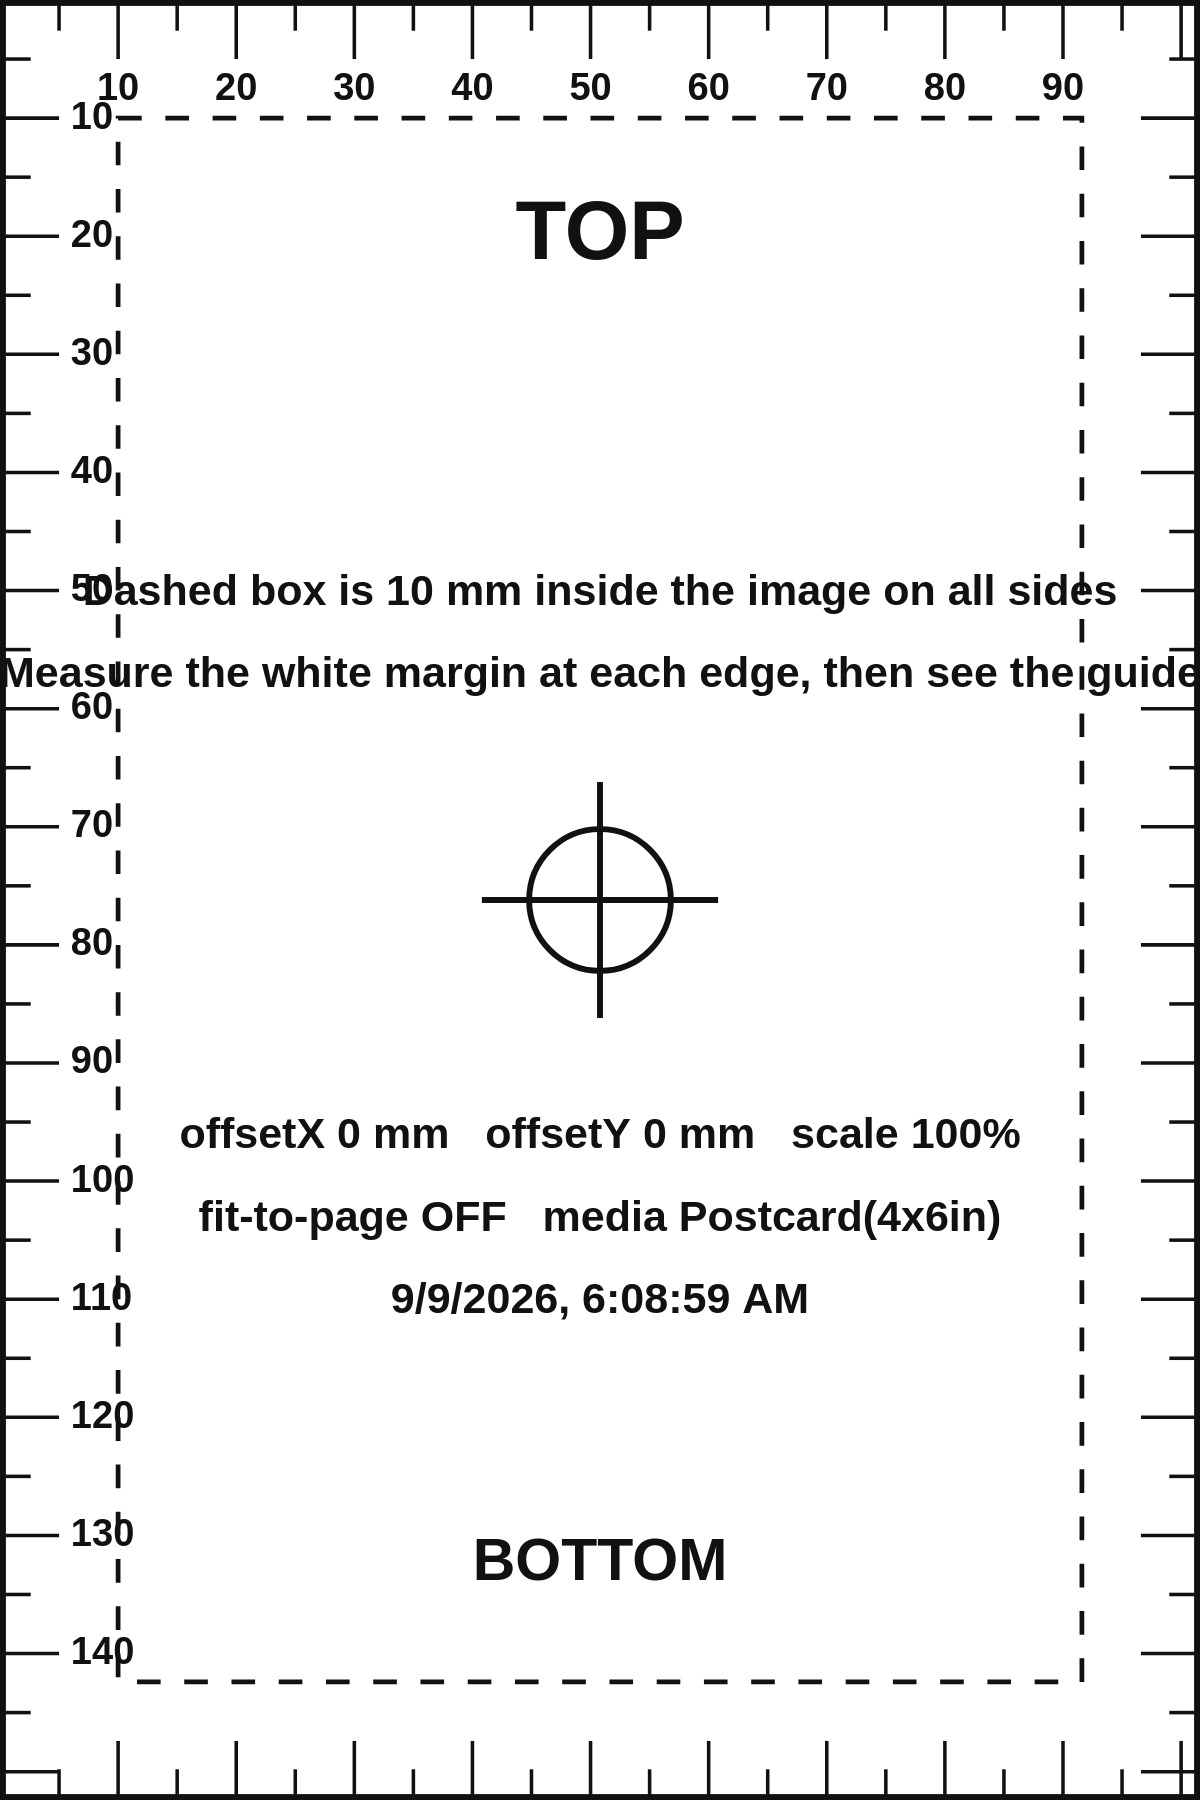
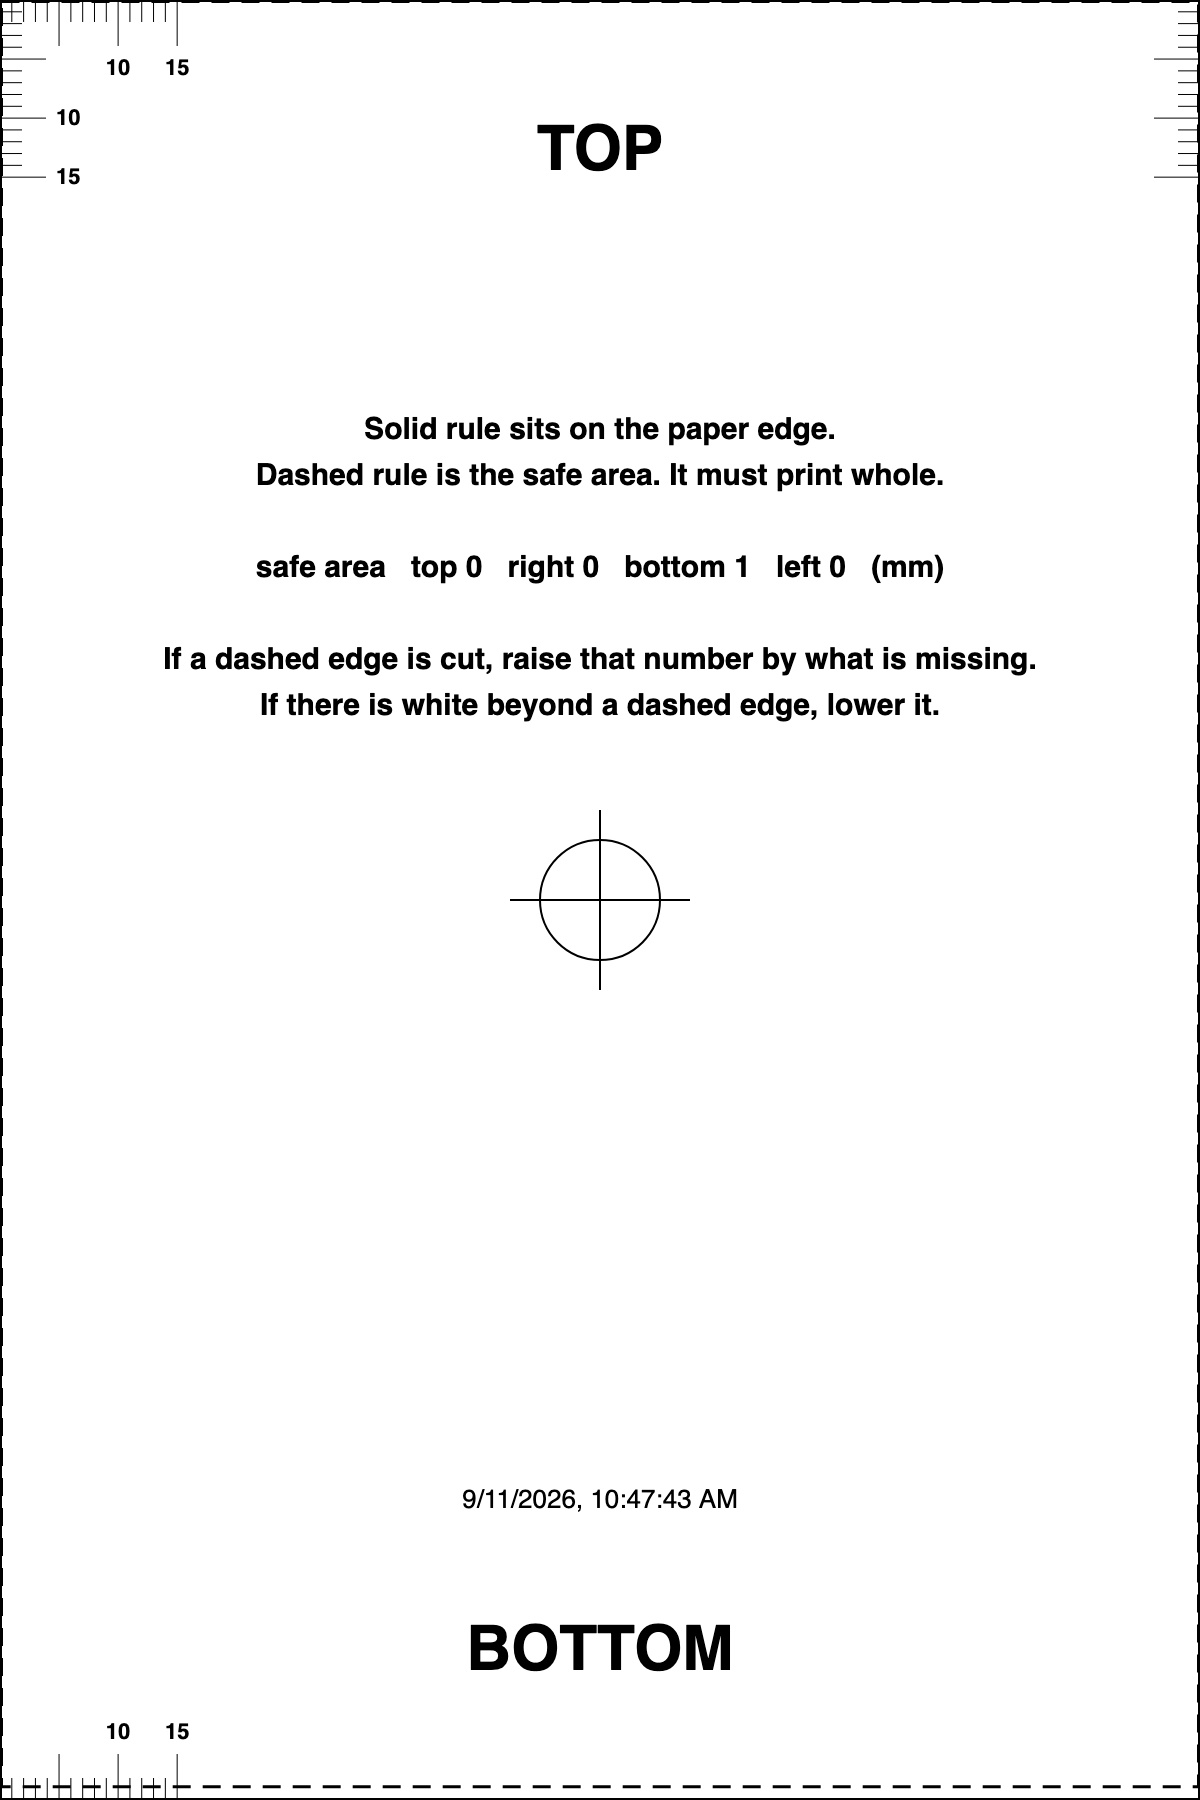
Staff can retime the booth from their phone
Every timing in the flow was a number in settings.json, which meant changing
the gap between photos was a text editor, a restart, and someone who knows
what JSON is. At an event none of those are available, so the numbers simply
stayed wrong.

The queue page now has a Timing tab that draws the booth's actual flow --
get ready, photos, the gap between them, the three review steps, the idle
reset -- as a numbered list with the seconds in a box next to each. An
operator who has never seen the code can see what they are changing because
what they are changing is laid out in the order it happens.

Saving goes through config.save, so the clamps apply and a fat-fingered 300
cannot leave the booth waiting five minutes between shots, and the new values
are pushed straight at the renderer. No restart: an operator who has to
restart the app to change a countdown will just leave it wrong.

One definition of what is tunable, in main, which the phone renders and the
save path validates against, so the form and the clamps cannot drift apart.

diff --git a/server.js b/server.js
@@ -77,7 +77,7 @@ function retotal(order, pricing) {
  * @param {object} opts.cfg
  * @param {(order) => Promise<{ok:boolean,error?:string}>} opts.onRelease
  */
-function start({ queue, cfg, onRelease, onKeychain, isLocked, onStartSession }) {
+function start({ queue, cfg, onRelease, onKeychain, isLocked, onStartSession, onSettings, timings }) {
   const pin = String(cfg.staffPin || '');
   const port = cfg.staffPort || 8080;
 
@@ -115,6 +115,26 @@ function start({ queue, cfg, onRelease, onKeychain, isLocked, onStartSession }) 
     if (p === '/api/start' && req.method === 'POST') {
       if (!onStartSession) return json(res, 501, { error: 'not supported' });
       return json(res, 200, onStartSession() || { ok: true });
+    }
+
+    /**
+     * Timings, as a list the phone renders into the booth's actual flow. Kept
+     * here rather than as a hard-coded form so there is one definition of what
+     * is tunable, and non-technical staff never have to open settings.json.
+     */
+    if (p === '/api/settings') {
+      if (req.method === 'POST') {
+        if (!onSettings) return json(res, 501, { error: 'not supported' });
+        const body = await readBody(req);
+        const patch = {};
+        for (const row of (timings ? timings() : [])) {
+          if (Number.isFinite(body[row.key])) patch[row.key] = body[row.key];
+        }
+        if (!Object.keys(patch).length) return json(res, 400, { error: 'nothing to change' });
+        const r = onSettings(patch);
+        return json(res, 200, r || { ok: true });
+      }
+      return json(res, 200, { settings: timings ? timings() : [] });
     }
 
     if (p === '/api/thumb') {
@@ -272,6 +292,24 @@ const PAGE = `<!doctype html>
   .kc.small{width:auto;margin:0 0 0 10px;padding:6px 10px;font-size:12px;
     color:var(--paper);border-color:rgba(255,248,238,.35)}
   .past{align-items:center}
+  .tabs{display:flex;gap:8px;margin-left:auto}
+  .tab{background:transparent;color:var(--paper);border:1px solid rgba(255,248,238,.3);
+    padding:8px 12px;font-size:13px;border-radius:999px;font-weight:500}
+  .tab[aria-selected="true"]{background:var(--paper);color:var(--ink)}
+  .flow{display:flex;flex-direction:column;gap:10px}
+  .fstep{background:var(--paper);color:var(--ink);border-radius:16px;padding:12px 14px;
+    display:flex;align-items:center;gap:12px}
+  .fstep .n{width:26px;height:26px;border-radius:50%;background:var(--ink);color:var(--paper);
+    display:grid;place-items:center;font-size:13px;font-weight:700;flex:0 0 auto}
+  .fstep .lab{font-weight:600;font-size:15px}
+  .fstep .hint{display:block;font-weight:400;font-size:12px;color:var(--soft)}
+  .fstep .val{margin-left:auto;display:flex;align-items:center;gap:8px;flex:0 0 auto}
+  .fstep input{width:74px;padding:10px;font-size:19px;text-align:center;border-radius:10px;
+    border:1px solid var(--line);background:#fff;color:var(--ink);font-weight:700}
+  .fstep .unit{font-size:12px;color:var(--soft);width:16px}
+  .arrow{text-align:center;color:rgba(255,248,238,.4);font-size:14px;line-height:1;margin:-4px 0}
+  .saverow{position:sticky;bottom:0;padding:12px 0 0;background:linear-gradient(transparent,var(--ink) 30%)}
+  .saved{text-align:center;font-size:13px;opacity:.75;padding-top:8px}
 </style></head><body>
 <div id="gate" class="gate">
   <h1>Xinhmo</h1>
@@ -281,9 +319,22 @@ const PAGE = `<!doctype html>
   <p id="gateErr" class="err"></p>
 </div>
 <div id="app" hidden>
-  <header><h1>Queue</h1><span class="count" id="count"></span></header>
-  <main><div id="booth"></div><div id="list"></div>
-    <h2 id="pastHead" hidden>Done</h2><div id="past"></div>
+  <header><h1>Queue</h1><span class="count" id="count"></span>
+    <span class="tabs">
+      <button class="tab" id="tabQueue" aria-selected="true">Queue</button>
+      <button class="tab" id="tabSet" aria-selected="false">Timing</button>
+    </span>
+  </header>
+  <main>
+    <div id="queueView"><div id="booth"></div><div id="list"></div>
+      <h2 id="pastHead" hidden>Done</h2><div id="past"></div>
+    </div>
+    <div id="setView" hidden>
+      <h2 style="margin-top:8px">How long each step lasts</h2>
+      <div class="flow" id="flow"></div>
+      <div class="saverow"><button class="go" id="saveSet">Save timings</button></div>
+      <p class="saved" id="setMsg">Changes reach the booth straight away. It does not need restarting.</p>
+    </div>
   </main>
 </div>
 <script>
@@ -311,8 +362,57 @@ const PAGE = `<!doctype html>
     }).catch(function(e){$('gateErr').textContent=e.message});
   }
 
+  // Timing view. Drawn as the booth's own flow with a number in each step, so
+  // an operator who has never seen the code can still see what they are changing.
+  var settings=[];
+  function loadSettings(){
+    api('/api/settings').then(function(r){return r.json()}).then(function(d){
+      settings=d.settings||[]; renderFlow();
+    }).catch(function(){});
+  }
+  function renderFlow(){
+    var f=$('flow'); f.innerHTML='';
+    settings.forEach(function(row,i){
+      if(i)f.insertAdjacentHTML('beforeend','<div class="arrow">&#9660;</div>');
+      var el=document.createElement('div'); el.className='fstep';
+      el.innerHTML='<span class="n">'+(i+1)+'</span>'+
+        '<span class="lab">'+row.label+'<span class="hint">'+row.hint+'</span></span>'+
+        '<span class="val"><input type="number" inputmode="numeric" data-k="'+row.key+'" '+
+          'min="'+row.min+'" max="'+row.max+'" value="'+row.value+'" />'+
+          '<span class="unit">'+(row.unit===''?'':'s')+'</span></span>';
+      f.appendChild(el);
+    });
+  }
+  $('saveSet').addEventListener('click',function(){
+    var b=this, body={};
+    $('flow').querySelectorAll('input[data-k]').forEach(function(i){
+      var v=parseInt(i.value,10); if(!isNaN(v))body[i.getAttribute('data-k')]=v;
+    });
+    b.disabled=true; b.textContent='Saving...';
+    api('/api/settings',{method:'POST',headers:{'Content-Type':'application/json'},
+      body:JSON.stringify(body)})
+      .then(function(r){return r.json()})
+      .then(function(d){
+        settings=d.settings||settings; renderFlow();
+        b.disabled=false; b.textContent='Save timings';
+        $('setMsg').textContent='Saved. The booth is using these now.';
+      })
+      .catch(function(){b.disabled=false;b.textContent='Save timings';
+        $('setMsg').textContent='Could not save. Try again.'});
+  });
+  function tab(which){
+    var q=which==='queue';
+    $('queueView').hidden=!q; $('setView').hidden=q;
+    $('tabQueue').setAttribute('aria-selected',String(q));
+    $('tabSet').setAttribute('aria-selected',String(!q));
+    if(!q)loadSettings();
+  }
+  $('tabQueue').addEventListener('click',function(){tab('queue')});
+  $('tabSet').addEventListener('click',function(){tab('set')});
+
   function refresh(){
     if(Object.keys(busy).length)return;
+    if($('queueView').hidden)return;   // staff are on the timing tab
     api('/api/queue').then(function(r){return r.json()}).then(render).catch(function(){});
   }
 

diff --git a/preload.js b/preload.js
@@ -34,6 +34,11 @@ contextBridge.exposeInMainWorld('booth', {
   // booth lock, between sessions
   lockBooth: () => ipcRenderer.invoke('booth:lock'),
   boothState: () => ipcRenderer.invoke('booth:state'),
+  onSettings: (cb) => {
+    const handler = (_e, cfg) => cb(cfg);
+    ipcRenderer.on('app:settings', handler);
+    return () => ipcRenderer.removeListener('app:settings', handler);
+  },
   onUnlock: (cb) => {
     const handler = () => cb();
     ipcRenderer.on('booth:unlock', handler);
